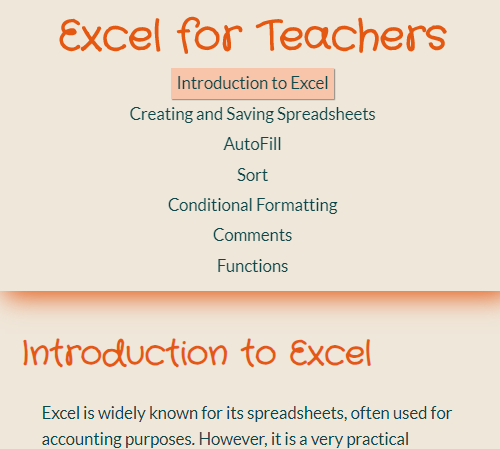
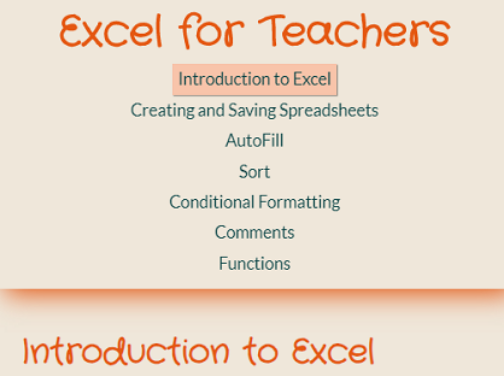
Added some css hover effects. Made projects flex wrap on desktop.

diff --git a/index.html b/index.html
@@ -41,42 +41,48 @@
     <section id="projects">
         <h2>Ver&#0243;nica's Projects</h2>
         <p>These are the freeCodeCamp projects I have done to complete the Web Developer track.</p>
+        <div class="projectsFlex">
         <div class="project-tile">
             <h3>Tribute Page</h3>
             <a href="https://codepen.io/veronica2112/pen/dyGWbPG" target="_blank">
-                <img src="images/tributepage.PNG">
+                <img src="images/tributepage.PNG" alt="Snapshot of tribute page to Rumi">
             </a>
         </div>
         <div class="project-tile">
             <h3>Survey Form</h3>
             <a href="https://surveyform-fcc-git-master.vjones2112.vercel.app/" target="_blank">
-                <img src="images/surveyform.PNG">
+                <img src="images/surveyform.PNG" alt="Snapshot of freeCodeCamp Survey Form">
             </a>
         </div>
         <div class="project-tile">
             <h3>Product Landing Page</h3>
             <a href="https://productlandingpage-fcc-git-master.vjones2112.vercel.app/" target="_blank">
-                <img src="images/productlandingpage.PNG">
+                <img src="images/productlandingpage.PNG" alt="Snapshot of Hook&Needle product landing page">
             </a>
         </div>
         <div class="project-tile">
             <h3>Technical Documentation Page</h3>
             <a href="https://technicaldocpage-fcc-git-master.vjones2112.vercel.app/" target="_blank">
-                <img src="images/technicaldocumentationpage.PNG">
+                <img src="images/technicaldocumentationpage.PNG" alt="Snapshot of Excel for Teachers technical documentation page">
             </a>
+            </div>
         </div>
     </section>
 
     <section id="contact">
         <h2>Contact Ver&#0243;nica</h2>
         <p>You can fill out <a href="https://forms.gle/7uiYwURZ5wHdfVXD6" target="_blank">this Google form</a> to reach me or visit any of my contact links below!</p>
+        
         <ul>
-            <li><a href="https://github.com/VJones2112" id="profile-link" target="_blank"><i class="fa fa-github fa-lg" aria-hidden="true"></i></a></li>
-            <li><a href="https://www.freecodecamp.org/vjones2112" id="profile-link" target="_blank"><i class="fa fa-free-code-camp fa-lg" aria-hidden="true"></i></a></li>
-            <li><a href="https://www.linkedin.com/in/veronicajones2112/" id="profile-link" target="_blank"><i class="fa fa-linkedin fa-lg" aria-hidden="true"></i></a></li>
+            <li><a href="https://github.com/VJones2112" id="profile-link" target="_blank"><i class="fa fa-github fa-lg grow" aria-hidden="true"></i></a></li>
+            <li><a href="https://www.freecodecamp.org/vjones2112" id="profile-link" target="_blank"><i class="fa fa-free-code-camp fa-lg grow" aria-hidden="true"></i></a></li>
+            <li><a href="https://www.linkedin.com/in/veronicajones2112/" id="profile-link" target="_blank"><i class="fa fa-linkedin fa-lg grow" aria-hidden="true"></i></a></li>
         </ul>
+        
         <h6 class="fauxFooter">Challenge by <a href="https://www.freecodecamp.org/learn/responsive-web-design/responsive-web-design-projects/build-a-personal-portfolio-webpage" target="_blank">freeCodeCamp</a> | Coded by <a href="https://github.com/VJones2112" target="_blank"> Ver&#0243;nica 2020</a></h6>
+        
         <h6>Today is <span id="date"></span></h6>
+        
     </section>
 
 </body>

diff --git a/style.css b/style.css
@@ -11,7 +11,6 @@ html {
 }
 
 body {
-    width: auto;
     max-width: 700px;
     background-color: #EA8C55;
     margin: 0 auto;
@@ -131,6 +130,33 @@ p::first-letter {
     box-shadow: .3rem .6rem .5rem .5rem #661A15;
 }
 
+.projectsFlex { 
+    visibility: hidden; 
+}
+/* Prevents :hover from triggering in the gaps between items */
+
+.projectsFlex > * { 
+    visibility: visible; 
+}
+/* Brings the child items back in, even though the parent is `hidden` */
+
+.projectsFlex  > * { 
+    transition: opacity 150ms linear 100ms, transform 150ms ease-in-out 100ms; 
+}
+/* Makes the fades smooth with a slight delay to prevent jumps as the mouse moves between items */
+
+.projectsFlex:hover > * { 
+    opacity: 0.4; 
+    transform: scale(0.9); 
+}
+/* Fade out all items when the parent is hovered */
+
+.projectsFlex  > *:hover { 
+    opacity: 1; 
+    transform: scale(1); 
+    transition-delay: 0ms, 0ms; 
+}
+
 #contact {
     line-height: 1.5rem;
     background-color: #81171B;
@@ -148,10 +174,6 @@ p::first-letter {
     text-decoration: none;
 }
 
-#contact a:hover {
-    background-color: white;
-}
-
 #contact p {
     color: #EA8C55;
     margin: 1rem 0;
@@ -167,6 +189,14 @@ p::first-letter {
     padding: 0 2rem;
     margin-right: 0.5rem;
 }
+    
+.grow {
+        transition: all .2s ease-in-out;
+}
+.grow:hover {
+        transform: scale(1.5);
+}
+
 
 .fauxFooter {
     text-align: center;
@@ -187,10 +217,18 @@ h6, span {
 
 /*Media query below is for small phone screen.*/
 @media screen and (max-width: 400px) {
-    
 #welcome-section h1 {
         font-size: 3rem;
     } 
+    body, section {
+        max-width: calc(99% - 1rem);
+    }
+    #navbar {
+        max-width: 99%;
+    }
+    #navbar li {
+        padding-right: 1rem;
+    }
 }
 
 /*Media query below is for desktop.*/
@@ -207,12 +245,22 @@ h6, span {
     #navbar {
         width: 100%;
         max-width: 900px;
-        
+
+    }
+    
+    .projectsFlex {
+        display: flex;
+        flex-wrap: wrap;
+    }
+    
+    .project-tile {
+        width: 50%;
     }
     
     #projects img {
 /*        height: auto;*/
-        width: 60%;
+/*        width: 60%;*/
+        
     }
     
     #welcome-section, #about-me, #projects, #contact {
